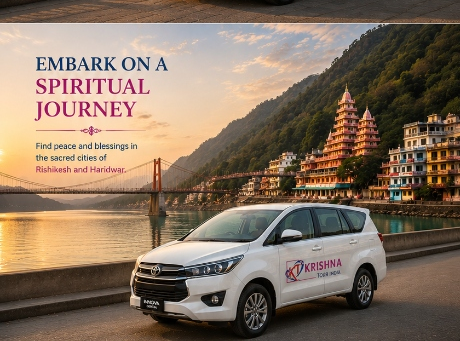
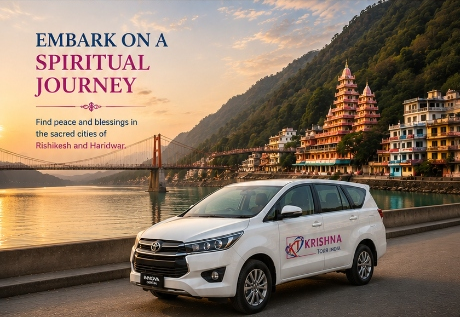
Fix hero section responsiveness

diff --git a/src/pages/Home.css b/src/pages/Home.css
@@ -533,45 +533,53 @@ body {
 /* Hero Slideshow Section    */
 /* ========================= */
 
-/* margin-top is set dynamically via JS (navbarHeight state) so the
-   hero always sits flush beneath the fixed navbar at every screen size. */
+/* margin-top set via JS inline style — always flush under the fixed navbar */
 .hero-section {
   width: 100%;
-  overflow: hidden;
-  background: #000;
-  /* No margin-top here — set via inline style in JSX */
+  background: transparent;
 }
 
+/* Slideshow container — height is determined by the active (relative) slide */
 .hero-slideshow {
+  position: relative;
   width: 100%;
   overflow: hidden;
 }
 
-.hero-slides-track {
-  display: flex;
-  transition: transform 0.7s cubic-bezier(0.645, 0.045, 0.355, 1);
-  will-change: transform;
-}
-
-/* Each slide takes exactly 100% of the container width */
+/* ── Opacity cross-fade approach ──
+   Inactive slides: absolute (no height effect) + invisible.
+   Active slide:    relative (sets container height) + visible.
+   This means each image shows at its FULL natural size — no black bars,
+   no cropping, regardless of differing image heights. */
 .hero-slide {
-  flex: 0 0 100%;
+  position: absolute;
+  top: 0;
+  left: 0;
   width: 100%;
-  min-width: 100%;
+  opacity: 0;
+  transition: opacity 0.8s ease;
+  pointer-events: none;
+  z-index: 0;
 }
 
-/* Image fills full width, height auto = no cropping, no stretching */
+.hero-slide.active {
+  position: relative;   /* participates in normal flow → sets parent height */
+  opacity: 1;
+  pointer-events: auto;
+  z-index: 1;
+}
+
+/* Full image, natural size — no clipping, no stretching */
 .hero-slide img {
   width: 100%;
   height: auto;
   display: block;
-  object-fit: contain;
-  vertical-align: bottom; /* removes inline gap below image */
 }
 
 /* Legacy elements hidden */
 .hero-overlay,
-.hero-content-wrapper {
+.hero-content-wrapper,
+.hero-slides-track {
   display: none !important;
 }
 /* Our Promise Section */

diff --git a/src/pages/Packages.css b/src/pages/Packages.css
@@ -1,27 +1,24 @@
 @import url('https://fonts.googleapis.com/css2?family=Playfair+Display:wght@700;900&family=Inter:wght@400;600;700;800&display=swap');
 
-/* 1. New Premium Hero Section */
+/* Packages hero — margin-top set in JSX via JS measurement of
+   the fixed navbar's actual rendered height. No padding-top needed
+   since the image itself starts at the very top of the section. */
 .packages-hero-premium {
   position: relative;
   width: 100%;
   overflow: hidden;
-  margin-top: 0;
-  padding-top: 86px;
+  margin-top: 0; /* overridden via inline style in JSX */
   background: linear-gradient(to right, #b07450 0%, #c17a55 25%, #bc7365 50%, #ad857e 75%, #716576 100%);
 }
 
 @media (max-width: 991px) {
   .packages-hero-premium {
     height: auto;
-    padding-top: 80px;
     padding-bottom: 0;
   }
 }
 
 @media (max-width: 768px) {
-  .packages-hero-premium {
-    padding-top: 76px;
-  }
   .packages-hero-premium .hero-bg-img {
     height: 260px;
     object-fit: cover;
@@ -31,9 +28,6 @@
 }
 
 @media (max-width: 480px) {
-  .packages-hero-premium {
-    padding-top: 64px;
-  }
   .packages-hero-premium .hero-bg-img {
     height: 200px;
     object-position: 10% center;

diff --git a/src/pages/Fleet.jsx b/src/pages/Fleet.jsx
@@ -1,4 +1,4 @@
-import React, { useState } from "react";
+import React, { useState, useEffect } from "react";
 import fleetApi from "./Fleet_api";
 import "./Fleet.css";
 import VehicleCard from "./VehicleCard";
@@ -42,6 +42,18 @@ const Fleet = () => {
     description: "Browse Krishna Tour India's fleet of luxury sedans, SUVs, Urbania, and Tempo Travellers with professional English speaking drivers."
   });
 
+  const [navbarHeight, setNavbarHeight] = useState(86);
+
+  useEffect(() => {
+    const updateHeight = () => {
+      const navbar = document.querySelector('.custom-navbar');
+      if (navbar) setNavbarHeight(navbar.getBoundingClientRect().height);
+    };
+    updateHeight();
+    window.addEventListener('resize', updateHeight);
+    return () => window.removeEventListener('resize', updateHeight);
+  }, []);
+
   const [vehiclesData, setVehiclesData] = useState(fleetApi);
 
   const filterItem = (type) => {
@@ -60,7 +72,7 @@ const Fleet = () => {
   return (
     <>
       {/* Hero Section */}
-      <section className="fleetPage">
+      <section className="fleetPage" style={{ marginTop: navbarHeight }}>
         <div className="fleetSection">
 
         </div>

diff --git a/src/pages/Packages.jsx b/src/pages/Packages.jsx
@@ -1,4 +1,4 @@
-import React from "react";
+import React, { useState, useEffect } from "react";
 import "./Packages.css";
 import delhiTour from "../assets/images/delhi_tour.png";
 import agra from "../assets/images/agra.png";
@@ -20,10 +20,22 @@ function Packages() {
     description: "Discover handcrafted India tour packages including Golden Triangle, Delhi City Tour, Agra Taj Mahal, Rajasthan, and Haridwar Rishikesh packages with private car & driver."
   });
 
+  const [navbarHeight, setNavbarHeight] = useState(86);
+
+  useEffect(() => {
+    const updateHeight = () => {
+      const navbar = document.querySelector('.custom-navbar');
+      if (navbar) setNavbarHeight(navbar.getBoundingClientRect().height);
+    };
+    updateHeight();
+    window.addEventListener('resize', updateHeight);
+    return () => window.removeEventListener('resize', updateHeight);
+  }, []);
+
   return (
     <>
       {/* 1. New Premium Hero Section */}
-      <section className="packages-hero-premium">
+      <section className="packages-hero-premium" style={{ marginTop: navbarHeight }}>
         <img
           src={tour6}
           alt="Tour Packages Banner"

diff --git a/src/pages/Home.jsx b/src/pages/Home.jsx
@@ -155,19 +155,14 @@ const Home = () => {
     <div className="home-container">
       <section className="hero-section" style={{ marginTop: navbarHeight }}>
         <div className="hero-slideshow">
-          <div
-            className="hero-slides-track"
-            style={{ transform: `translateX(-${currentSlide * 100}%)` }}
-          >
-            {slides.map((slide, index) => (
-              <div className="hero-slide" key={index}>
-                <img
-                  src={slide}
-                  alt={`Slide ${index + 1}`}
-                />
-              </div>
-            ))}
-          </div>
+          {slides.map((slide, index) => (
+            <div
+              className={`hero-slide${index === currentSlide ? ' active' : ''}`}
+              key={index}
+            >
+              <img src={slide} alt={`Slide ${index + 1}`} />
+            </div>
+          ))}
         </div>
       </section>
 

diff --git a/src/pages/Fleet.css b/src/pages/Fleet.css
@@ -4,7 +4,7 @@
 
 .fleetPage {
   height: 80vh;
-  margin-top: 86px;
+  /* margin-top set via JS inline style — always flush under the fixed navbar */
   margin-bottom: 20px;
 
   background:
@@ -50,7 +50,7 @@
 
   .fleetPage {
     height: auto;
-    padding: 80px 20px;
+    padding: 40px 20px; /* top padding handled by margin-top from JS */
   }
 }
 
